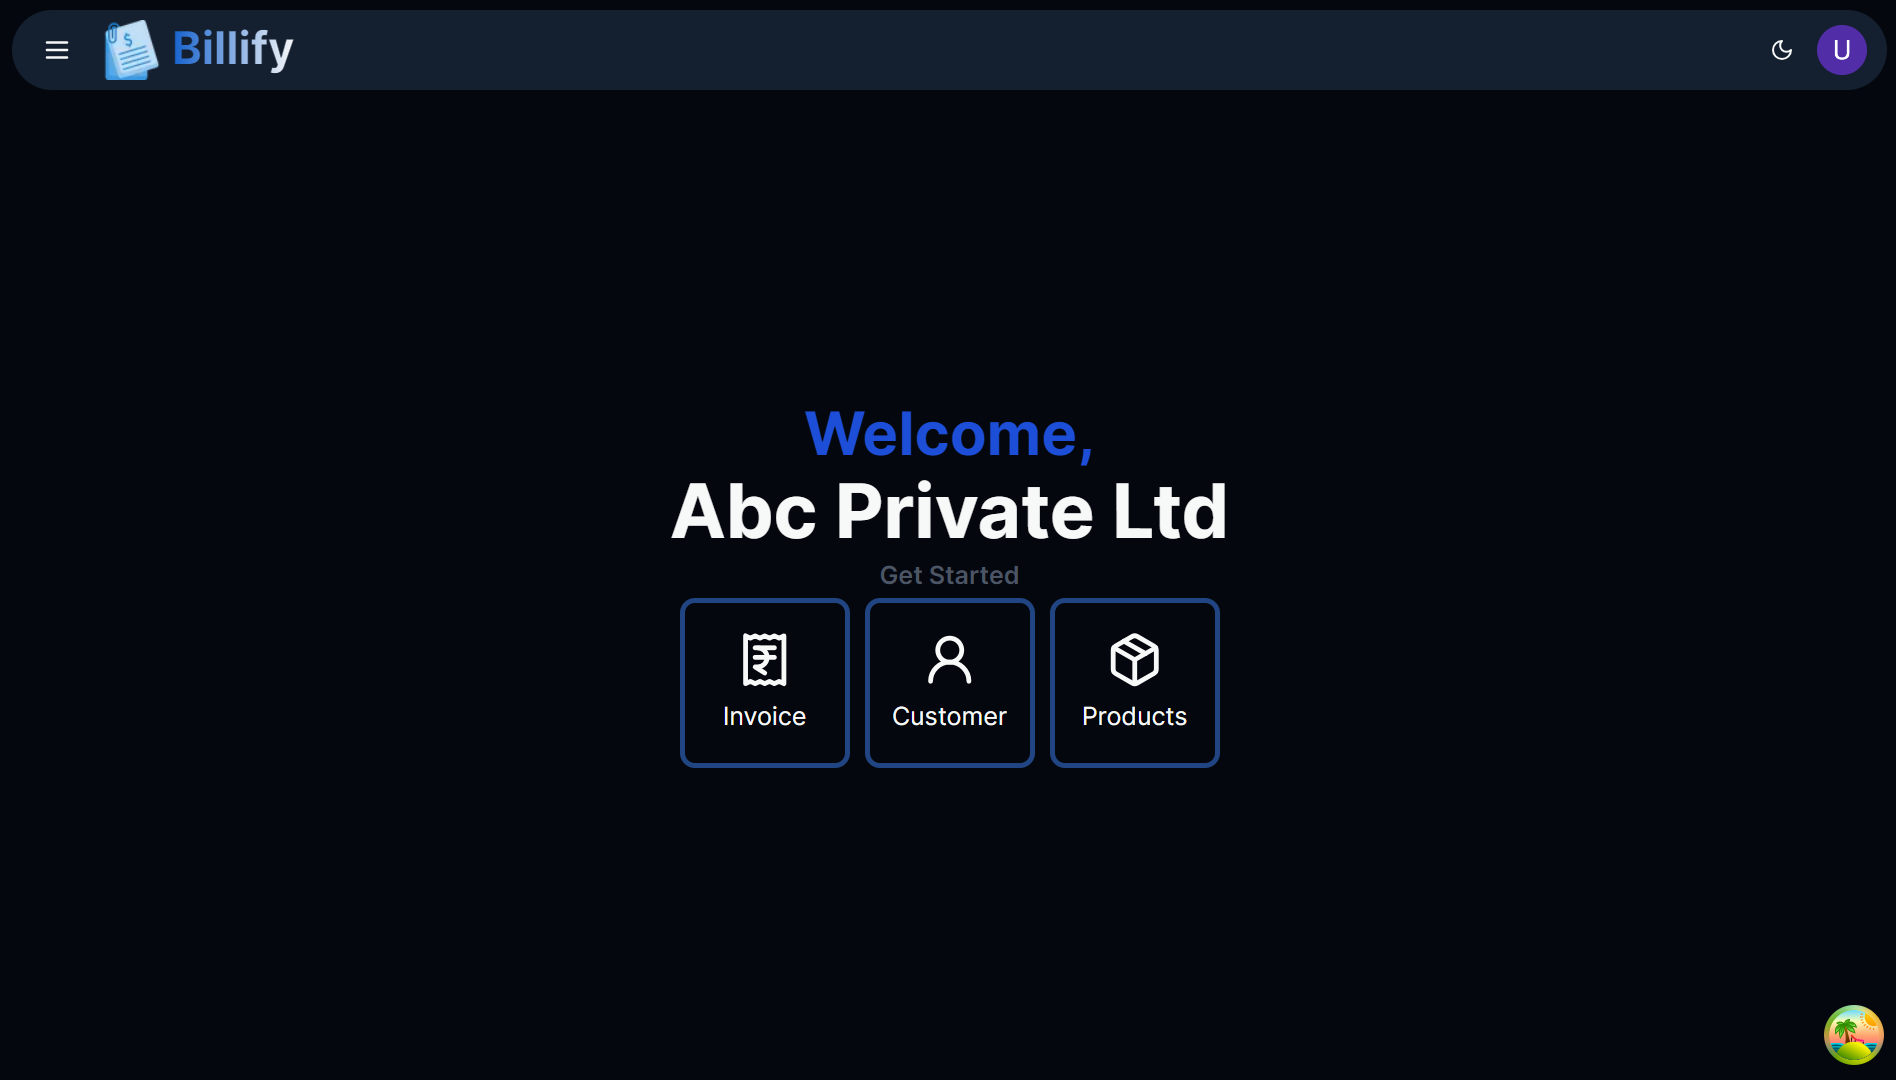
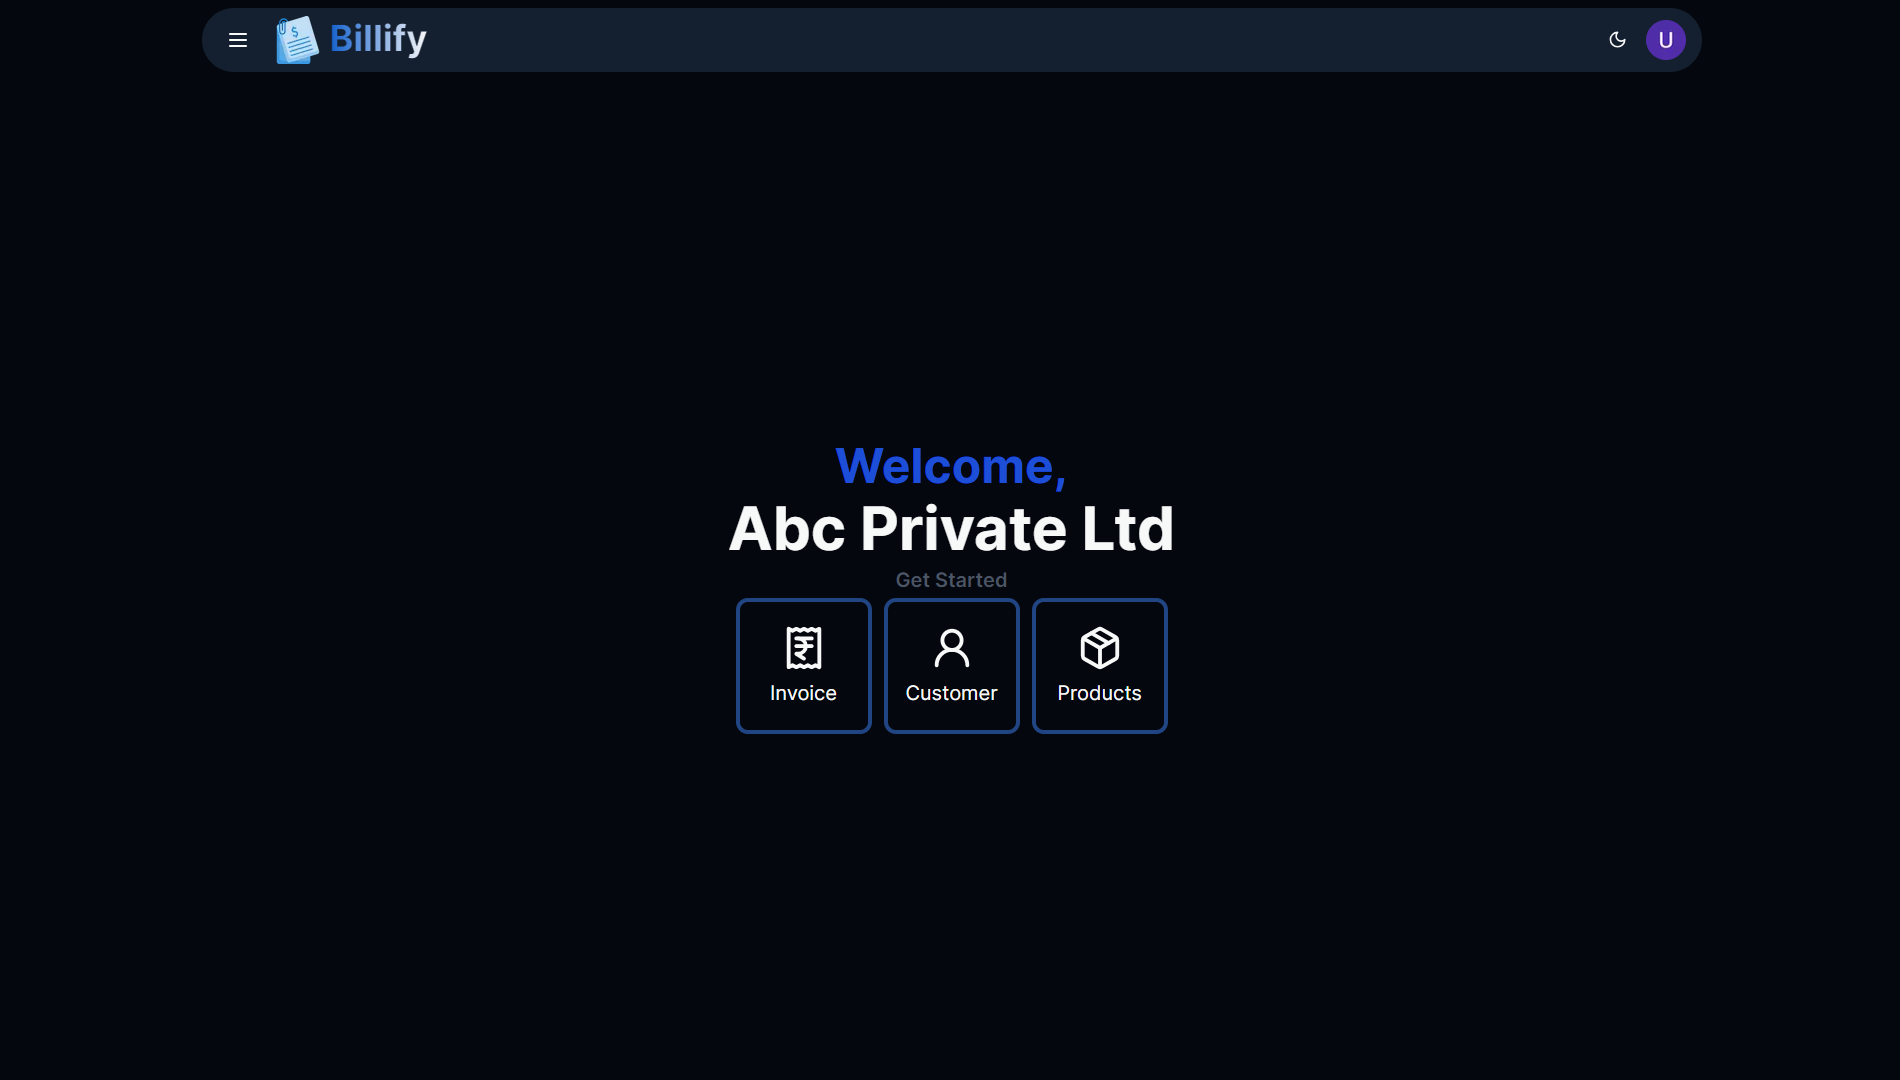
navbar bug fix

diff --git a/src/app/(site)/page.tsx b/src/app/(site)/page.tsx
@@ -1,4 +1,3 @@
-import { Check, CheckCheckIcon, CheckCircle, CheckCircle2 } from "lucide-react";
 import Image from "next/image";
 import { features } from "@/lib/constant";
 import TestimonialCard from "../../components/testimonial-card";
@@ -15,25 +14,25 @@ export default function Home() {
 
         <p className="text-center">Simple billing solution for you business</p>
         <div className="bg-gradient-to-r from-primary to-secondary-foreground text-transparent bg-clip-text relative">
-          <h1 className="text-9xl font-bold text-center md:text-[300px]">
+          <h1 className="text-9xl font-bold text-center md:text-[300px] h-[150px] md:h-[320px]">
             Billify
           </h1>
         </div>
-        <div className="flex justify-center items-center relative md:mt-[-70px] -z-20">
+        <div className="flex justify-center items-center relative mt-[-39px] md:mt-[-60px] -z-20 px-5">
           <Image
             src={"/dashboard.png"}
             quality={100}
             alt="banner image"
             height={1200}
             width={1200}
-            className="rounded-lg"
+            className="rounded-t-lg border-4 border-primary dark:border-secondary-foreground"
           />
           <div className="bottom-0 top-[50%] bg-gradient-to-t dark:from-background left-0 right-0 absolute z-50"></div>
         </div>
       </section>
       <Separator className="my-5 w-1/2 m-auto" />
       <section className="w-full flex flex-col items-center gap-8 my-10">
-        <p className="text-2xl md:text-4xl font-bold">A word from your users :&#41;</p>
+        <p className="text-2xl md:text-4xl font-bold">Testimonials from your users</p>
         <TestimonialCard />
       </section>
       <Separator className="my-5 w-1/2 m-auto" />

diff --git a/src/app/(main)/organization/[orgId]/invoice/page.tsx b/src/app/(main)/organization/[orgId]/invoice/page.tsx
@@ -37,8 +37,8 @@ export default function InvoicePage({ params }: { params: { orgId: string } }) {
   })
 
   return (
-    <section>
-      <Card>
+
+      <Card className="max-w-[1400px] m-auto">
         <CardHeader>
           <CardTitle className="flex justify-evenly">
             <>
@@ -54,7 +54,7 @@ export default function InvoicePage({ params }: { params: { orgId: string } }) {
             <TableCaption>Discover all the invoices associated with your company</TableCaption>
             <TableHeader>
               <TableRow>
-                <TableHead>Invoice No</TableHead>
+                <TableHead className="w-[150px]">Invoice No</TableHead>
                 <TableHead>Date</TableHead>
                 <TableHead>Status</TableHead>
                 <TableHead>Amount</TableHead>
@@ -80,7 +80,7 @@ export default function InvoicePage({ params }: { params: { orgId: string } }) {
           </Table>
         </CardContent>
       </Card>
-    </section>
+    // </section>
 
   )
 }

diff --git a/src/components/org-navbar.tsx b/src/components/org-navbar.tsx
@@ -15,17 +15,17 @@ import { navLinks } from "@/lib/constant"
 import { ModeToggle } from "./mode-toggle"
 import Image from "next/image"
 import Loading from "./loading"
-import { useSearchParams } from "next/navigation"
+import { usePathname } from "next/navigation"
 
 export default function OrgNavbar() {
   const { data: session, status } = useSession()
-  const params = useSearchParams()
-  const orgId = params.get('orgId')
-
+  const params = usePathname()
   const { name: userName, email: userEmail, image: userImage } = session?.user || {}
 
+  const orgId = params.split('/')[2]
+
   if (status === 'loading') return <Loading />
-  if (!session ) return
+  if (!session) return
   return (
     <div className="fixed h-16 px-4 max-w-[1500px] mx-auto left-0 right-0 top-0 flex items-center justify-between bg-secondary rounded-full my-2">
       <aside className="flex items-center gap-4">

diff --git a/src/app/(main)/organization/layout.tsx b/src/app/(main)/organization/layout.tsx
@@ -1,5 +1,6 @@
 'use client'
 
+import Loading from '@/components/loading'
 import { useSession } from 'next-auth/react'
 import { useRouter } from 'next/navigation'
 import React from 'react'
@@ -7,7 +8,7 @@ import React from 'react'
 export default function Layout({children}: {children: React.ReactNode}) {
     const {data: session, status } = useSession()
     const router = useRouter()
-    if (status === 'loading') return <div>Loading...</div>
+    if (status === 'loading') return <Loading />
     if (!session) {
         router.push('/')
     }

diff --git a/src/lib/utils.ts b/src/lib/utils.ts
@@ -1,6 +1,4 @@
-import { useQuery } from "@tanstack/react-query";
 import { type ClassValue, clsx } from "clsx";
-import { getSession } from "next-auth/react";
 import { twMerge } from "tailwind-merge";
 
 export function cn(...inputs: ClassValue[]) {

diff --git a/src/app/(main)/organization/[orgId]/layout.tsx b/src/app/(main)/organization/[orgId]/layout.tsx
@@ -1,7 +1,6 @@
 import OrgNavbar from "@/components/org-navbar";
 
 export default function OrganizationLayout({ children }: { children: React.ReactNode }) {
-  // console.log(params, 'paramsfromorglayout')
   return (
     <>
       <OrgNavbar />
